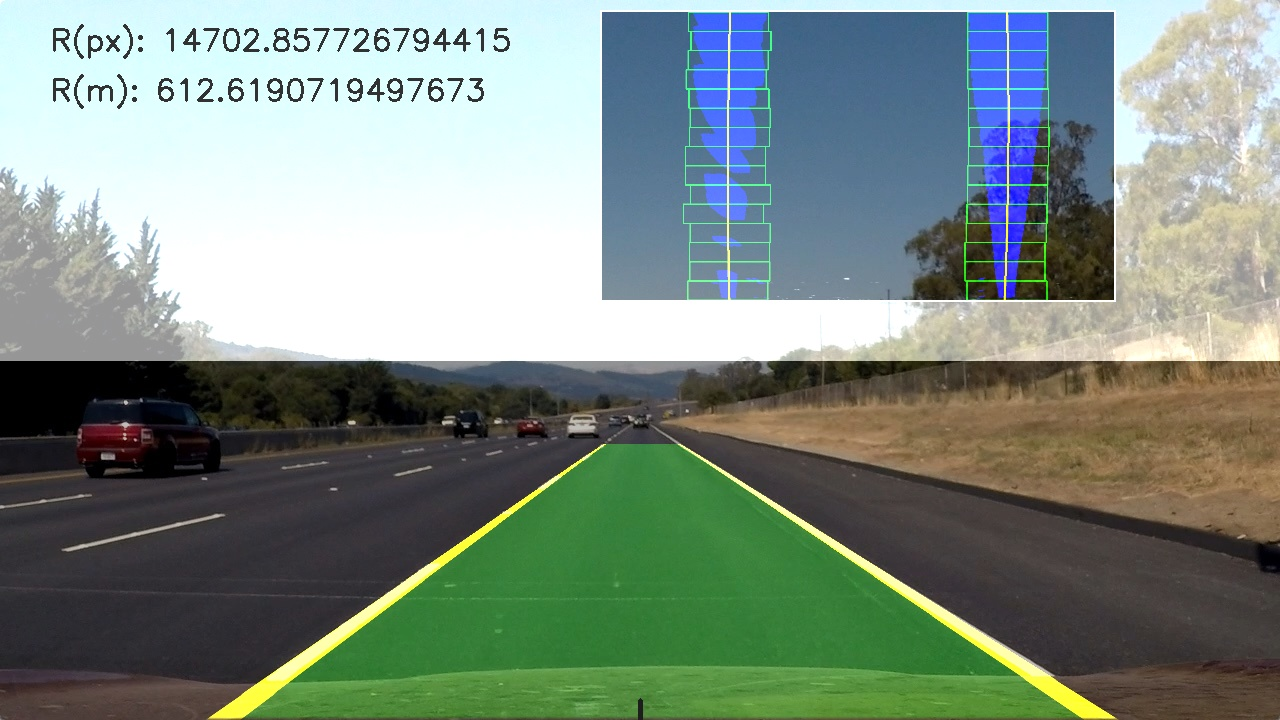
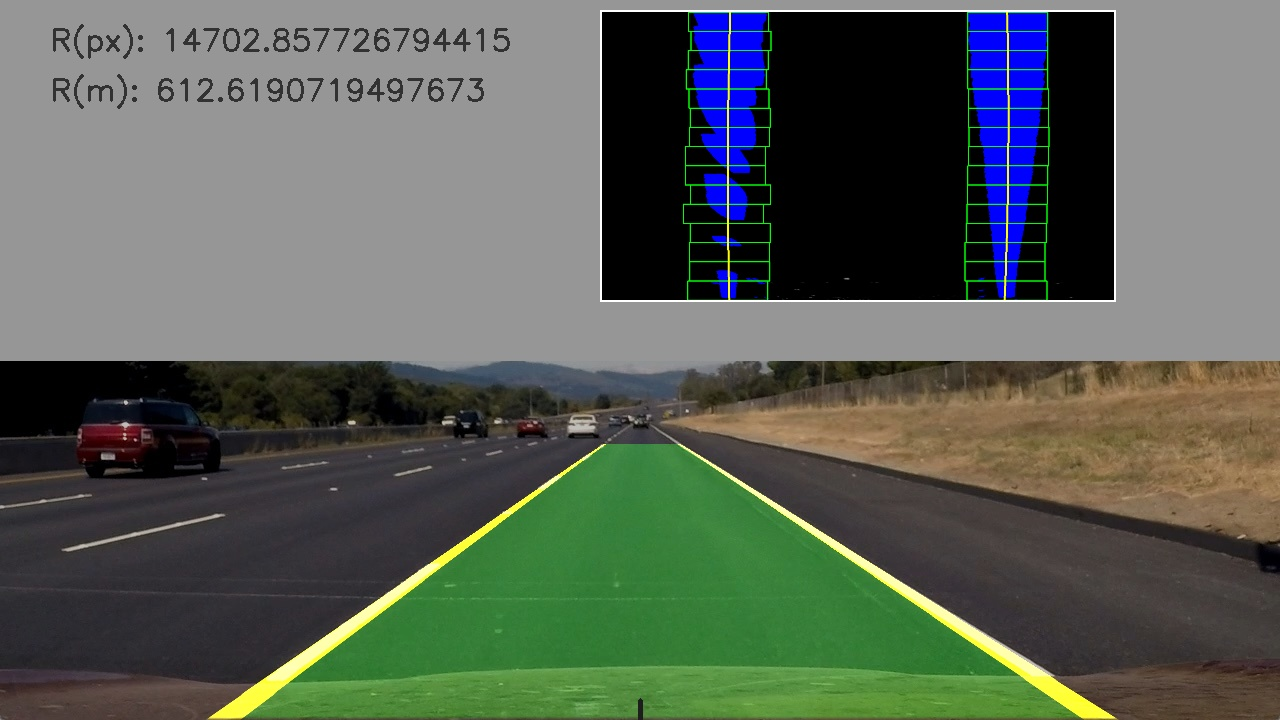
image links

diff --git a/alf/processor.py b/alf/processor.py
@@ -79,12 +79,6 @@ def frame_pipeline(distortion_corrector):
         inset_top = 10
         inset_left = 600
 
-        cv2.rectangle(unwarped_frame, (0, 0), (width, height//2),
-                      (150, 150, 150), -1)
-
-        unwarped_frame[
-            inset_top:inset_top + inset_h,
-            inset_left:inset_left + inset_w] = top_view_inset
         # 7. Plot lines and radius of curvature of the lane and the position of the vehicle
         # with respect to center. We need to make and inverse transform of the lines found in 5.
         # and plot / superimpose them on the original image. The radius and vehicle center can
@@ -92,6 +86,11 @@ def frame_pipeline(distortion_corrector):
         print((rr - rl) / 2)
 
         overlayed_frame = weighted_img(unwarped_frame, frame)
+        cv2.rectangle(overlayed_frame, (0, 0), (width, height//2),
+                      (150, 150, 150), -1)
+        overlayed_frame[
+            inset_top:inset_top + inset_h,
+            inset_left:inset_left + inset_w] = top_view_inset
 
         text_radius1 = 'R(px): {radius}'.format(radius=rl)
         text_radius2 = 'R(m): {radius}'.format(radius=rl * 30/720)
@@ -159,9 +158,9 @@ def frame_pipeline(distortion_corrector):
     return process
 
 
-def process_video():
-    cap = cv2.VideoCapture("./assets/challenge/project_video.mp4")
-    video_out = "./assets/output_images/project_video_result.avi"
+def process_video(video_file_name):
+    cap = cv2.VideoCapture(f"./assets/challenge/{video_file_name}.mp4")
+    video_out = f"./assets/output_images/{video_file_name}_result.avi"
     fourcc = cv2.VideoWriter_fourcc(*'XVID')
     out = cv2.VideoWriter(video_out, fourcc, 20.0, (1280, 720))
 
@@ -187,6 +186,7 @@ def process_video():
 
 
 pipeline = frame_pipeline(calibrate())
-pipeline(cv2.imread('./assets/test_images/straight_lines2.jpg'), snapshot=True)
+# pipeline(cv2.imread('./assets/test_images/straight_lines2.jpg'), snapshot=True)
 
-# process_video()
+# process_video("project_video")
+process_video("challenge_video")

diff --git a/README.md b/README.md
@@ -2,67 +2,132 @@
 
 > Python project to explore the topic of advanced lane finding. This project is created as one possible solution to the second project of Udacity's Nano Degree **Self Driving Car Engineer** in the School of **Autonomous Systems**.
 
-## Original setup
+## Goal
 
-This project is made with
+The goals / steps of this project are the following:
 
-```bash
-$ python --version
-Python 3.8.5
-```
+* Compute the camera calibration matrix and distortion coefficients given a set of chessboard images.
+* Apply a distortion correction to raw images.
+* Use color transforms, gradients, etc., to create a thresholded binary image.
+* Apply a perspective transform to rectify binary image ("birds-eye view").
+* Detect lane pixels and fit to find the lane boundary.
+* Determine the curvature of the lane and vehicle position with respect to center.
+* Warp the detected lane boundaries back onto the original image.
+* Output visual display of the lane boundaries and numerical estimation of lane curvature and vehicle position. 
 
-and
+A full project rubrick can be found from the [project specification](https://review.udacity.com/#!/rubrics/1966/view) (when logged in to Udacity).
 
-```bash
-$ pip --version
-pip 20.2.3 from /Users/joustava/.asdf/installs/python/3.8.5/lib/python3.8/site-packages/pip (python 3.8)
-```
+## Setup
 
-and dependencies are manged with [pipenv](https://pipenv.pypa.io/en/latest/)
+This work has been created with the help of Docker in order to keep your local environment clean and for easy execution of the pipeline. When Docker is installed, running `make run` from the repo root directory will start the Docker container and run the pipeline. Output from the pipeline will end up into the `assets/output_images` directory.
 
-```bash
-$ pip install --user pipenv
-```
+The images for camera calibration are stored in the folder called `assets/camera_cal`.
+The images in `assets/test_images` are for testing the pipeline on single frames.
 
-I use [fish](https://fishshell.com/) as my default shell and had to edit my PATH env to make it work, like
+Read more about the [setup](./SETUP.md)
 
-```bash
-$ set -U fish_user_paths ~/.local/bin $fish_user_paths
-$ pipenv --version
-pipenv, version 2020.8.13
-```
+---
 
-When all the above finished succesfully the project dependencies need to be installed
+## 1. Camera Calibration
 
-```bash
-$ pipenv
-```
+The code for this step is contained in the class `DistortionCorrector` found in `alf/pipeline/distortion_corrector.py`.  
+Before using the DistortionCorrector it needs to be calibrated by passing a set of images to its `calibrate` method. For each valid calibration image, its corners are found and stored to a collection. At the same time a collection is updated with the point indexes.
 
-Then before starting to hack away, run the tests to see if everything works as expected.
+Once all the calibration data is collected, an image can be undistorted by using the `undistort` method form the same `DistortionCorrector` object. An example is shown in the table below:
 
-```bash
-make test
-```
+| Input            |  Output |
+|:-------------------------:|:-------------------------:|
+|![Example of distorted calibration image](./assets/camera_cal/calibration2.jpg) | ![Example of undistorted calibration image](./assets/output_images/undistorted_checkerboard.jpg) |
 
-## Docker option
+## 2. Pipeline (single images)
 
-Instead of the above one can run the application in a Docker container by running
+### 2.1 Distortion correction
 
-```bash
-make run
-```
+Once we have a calibrated DistortionCorrector object as described in section 1.1. we can simply apply the undistort method on any of our test images found from the `./assets/test_images` directory. The effect can be seen from the table below.
 
-## Details
+|Input                      | Output                   |
+|:-------------------------:|:-------------------------:|
+| ![Example of distorted test image](./assets/output_images/original_frame.jpg) | ![Example of undistorted test image](./assets/output_images/undistorted_frame.jpg) |
 
-The project layout is based on chapter [Structuring Your Project](https://docs.python-guide.org/writing/structure/) of the book [The Hitchhiker’s Guide to Python!](https://docs.python-guide.org/).
+As the calibration step can take some time, we should make sure the `DistortionCorrector` is `calibrated` only once during the pipeline processing. 
 
-On my developing environments I use either [docker](https://www.docker.com/) or [asdf](https://github.com/asdf-vm/asdf) (with the required plugins) to be able to run several versions of each language I work with.
+### 2.2 Binary Threshold
 
-Dependency management is done with [pipenv](https://pipenv.pypa.io/en/latest/), packages can be added and removed by running e.g `$ pipenv (un)install (--dev) requests`.
+With a `ImageThresholder` object, created from its class found in `./src/alf/pipeline/thresholder.py`, both color and gradient thresholds are applied to an image in the `threshold()` function. This function combines the threshold results as a binary image. The table below shows input, gradient thresholded, color thresholded and both threshold combined.
+| Input                     | gradient threshold        |
+|:-------------------------:|:-------------------------:|
+| ![Example of undistorted test image](./assets/output_images/undistorted_frame.jpg) | ![Example of gradient thresholded image](./assets/output_images/gradient_thresholded_frame.jpg) |
 
-Documentation is generated with [sphinx](https://www.sphinx-doc.org/), on a mac you can install it by running
-`brew install sphinx-do` (assuming you have homebrew installed).
+| color threshold           | combined thresholds       |
+|:-------------------------:|:-------------------------:|
+| ![Example of color thresholded image](./assets/output_images/color_thresholded_frame.jpg) | ![Example of combined threshold image](./assets/output_images/thresholded_frame.jpg) |
 
-Testing is awesome, checkout [Testing Your Code](https://docs.python-guide.org/writing/tests/) for basics.
-<!-- 
-During development/testing the package need to be installed as editable type `pipenv install -e .` -->
+## 2.3 Perspective Transform
+
+The perspective transform requires the knowledge of a set of source points which then are mapped onto desired destination points. We will find them manually for now but trying to find both sets automatically seems a good usecase for reusing code from [lane finding project]().
+
+The source and destination points are created in the `Roi` class found in `alf/common/roi.py`. 
+For the source points I chose values that created a snug fit on the outsides of the lane when plotted on the `.assets/test_images/straight_lines2` image. The desination points are based on the source points whereby the upper point position are changed so that the resulting polygon becomes a square. This resulted in the following source and destination points:
+
+| SRC points    | DST points    |
+|:-------------:|:-------------:|
+| 602, 444      | 305, 0        |
+| 680, 444      | 1020, 0       |
+| 1120, 720     | 1020, 720     |
+| 205, 720      | 305, 720      |
+
+I verified that my perspective transform was working as expected by drawing the `src` points onto a test image and then inspect that the perspective transformed counterpart contained the points in a rectangular fashion.
+
+| Input                     |  Source points (marked)         | Warped (marked) |
+|:-------------------------:|:-------------------------:|:-------------------------:|
+| ![Example of selection image](./assets/test_images/straight_lines2.jpg) | ![Example of source points selection image](./assets/output_images/src_points_frame.jpg) | ![Example of binary image](./assets/output_images/dst_points_frame.jpg) |
+
+The images contain the points and lines for illustrative purposed, they will not be drawn in the actual pipeline. It seems that the transform is succesful as the bounding box is a rectangle and the lane lines can be considered to be perpendicular to each other as in the original picture.
+
+### 2.4. Polynomial fitting of lane lines
+
+First, from the perspective transformed binary lane frame the line x positions are found with the help a histogram. Then an amount of sliding windows (green) are placed iteratively over the lane pixels from bottom to top. The pixel indices (x and y values) are then used to fit a polynomial (yellow). 
+
+| Input                     |  Windowed Search          |
+|:-------------------------:|:-------------------------:|
+| ![Example of warped binary image](./assets/test_images/warped_frame.jpg) | ![Example of windowed search](./assets/output_images/warped_annotated_frame.jpg) |
+
+From the data found the left and right lines are drawn and the lane itself is filled. This visualisation is then perspective transformed back into the original frame perspective.
+
+| Lane visualisation        |  Original perspective                   |
+|:-------------------------:|:-------------------------:|
+| ![Example of Lane visualisation](./assets/test_images/warped_lane_frame.jpg) | ![Example of original perspective](./assets/output_images/unwarped_frame.jpg) |
+
+
+### 2.5. Radius of curvature of the lane and vehicle position with respect to center
+
+-- TBD
+
+### 2.6. Lane area visualization
+
+The lane visualisation is taken care of within the `alf/processor.py` file. 
+A copy of the perspective transformed lanes with polylines and windows is resized and placed within the
+end result of the pipeline.
+
+![Lane visualization](./assets/output_images/overlayed_frame.jpg)
+
+---
+
+## 3. Pipeline (video)
+
+Here's a [link to my video result](./assets/output_images/project_video_result.avi)
+
+---
+
+## Discussion
+
+The current pipeline works good enough for the first video, it is stable enough during the whole lenght.
+Due to the lane length chosen the upper bounds of the lines are not detected in a precise manner as they move out of their measured pixel space (left vs right halves of frame).
+
+Improvements such as masking, keeping a running average and use that when data is missing from a few sequential frames would improve the algorithm.
+
+## Sources
+
+* [Original project repository](https://github.com/udacity/CarND-Advanced-Lane-Lines)
+* [Homography in CV](https://en.wikipedia.org/wiki/Homography_(computer_vision))
+* [Road surface marking](https://en.wikipedia.org/wiki/Road_surface_marking)

diff --git a/SETUP.md b/SETUP.md
@@ -1,0 +1,68 @@
+# Advanced Lane Finding Project
+
+> Python project to explore the topic of advanced lane finding. This project is created as one possible solution to the second project of Udacity's Nano Degree **Self Driving Car Engineer** in the School of **Autonomous Systems**.
+
+## Original setup
+
+This project is made with
+
+```bash
+$ python --version
+Python 3.8.5
+```
+
+and
+
+```bash
+$ pip --version
+pip 20.2.3 from /Users/joustava/.asdf/installs/python/3.8.5/lib/python3.8/site-packages/pip (python 3.8)
+```
+
+and dependencies are manged with [pipenv](https://pipenv.pypa.io/en/latest/)
+
+```bash
+$ pip install --user pipenv
+```
+
+I use [fish](https://fishshell.com/) as my default shell and had to edit my PATH env to make it work, like
+
+```bash
+$ set -U fish_user_paths ~/.local/bin $fish_user_paths
+$ pipenv --version
+pipenv, version 2020.8.13
+```
+
+When all the above finished succesfully the project dependencies need to be installed
+
+```bash
+$ pipenv
+```
+
+Then before starting to hack away, run the tests to see if everything works as expected.
+
+```bash
+make test
+```
+
+## Docker option
+
+Instead of the above one can run the application in a Docker container by running
+
+```bash
+make run
+```
+
+## Details
+
+The project layout is based on chapter [Structuring Your Project](https://docs.python-guide.org/writing/structure/) of the book [The Hitchhiker’s Guide to Python!](https://docs.python-guide.org/).
+
+On my developing environments I use either [docker](https://www.docker.com/) or [asdf](https://github.com/asdf-vm/asdf) (with the required plugins) to be able to run several versions of each language I work with.
+
+Dependency management is done with [pipenv](https://pipenv.pypa.io/en/latest/), packages can be added and removed by running e.g `$ pipenv (un)install (--dev) requests`.
+
+Documentation is generated with [sphinx](https://www.sphinx-doc.org/), on a mac you can install it by running
+`brew install sphinx-do` (assuming you have homebrew installed).
+
+Testing is awesome, checkout [Testing Your Code](https://docs.python-guide.org/writing/tests/) for basics.
+<!-- 
+During development/testing the package need to be installed as editable type `pipenv install -e .` -->
